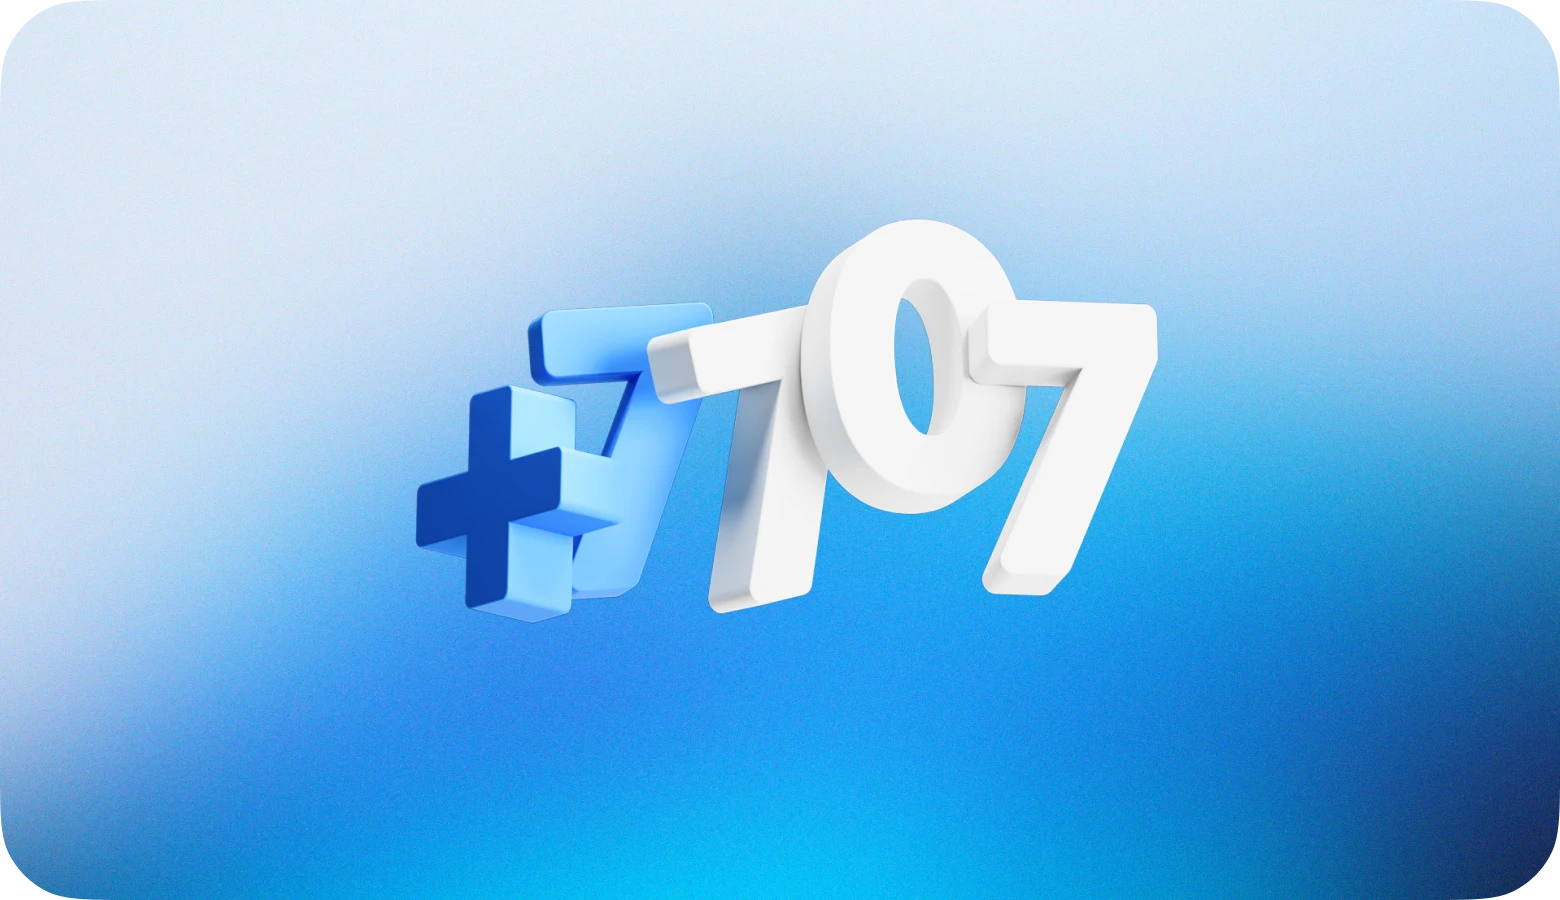
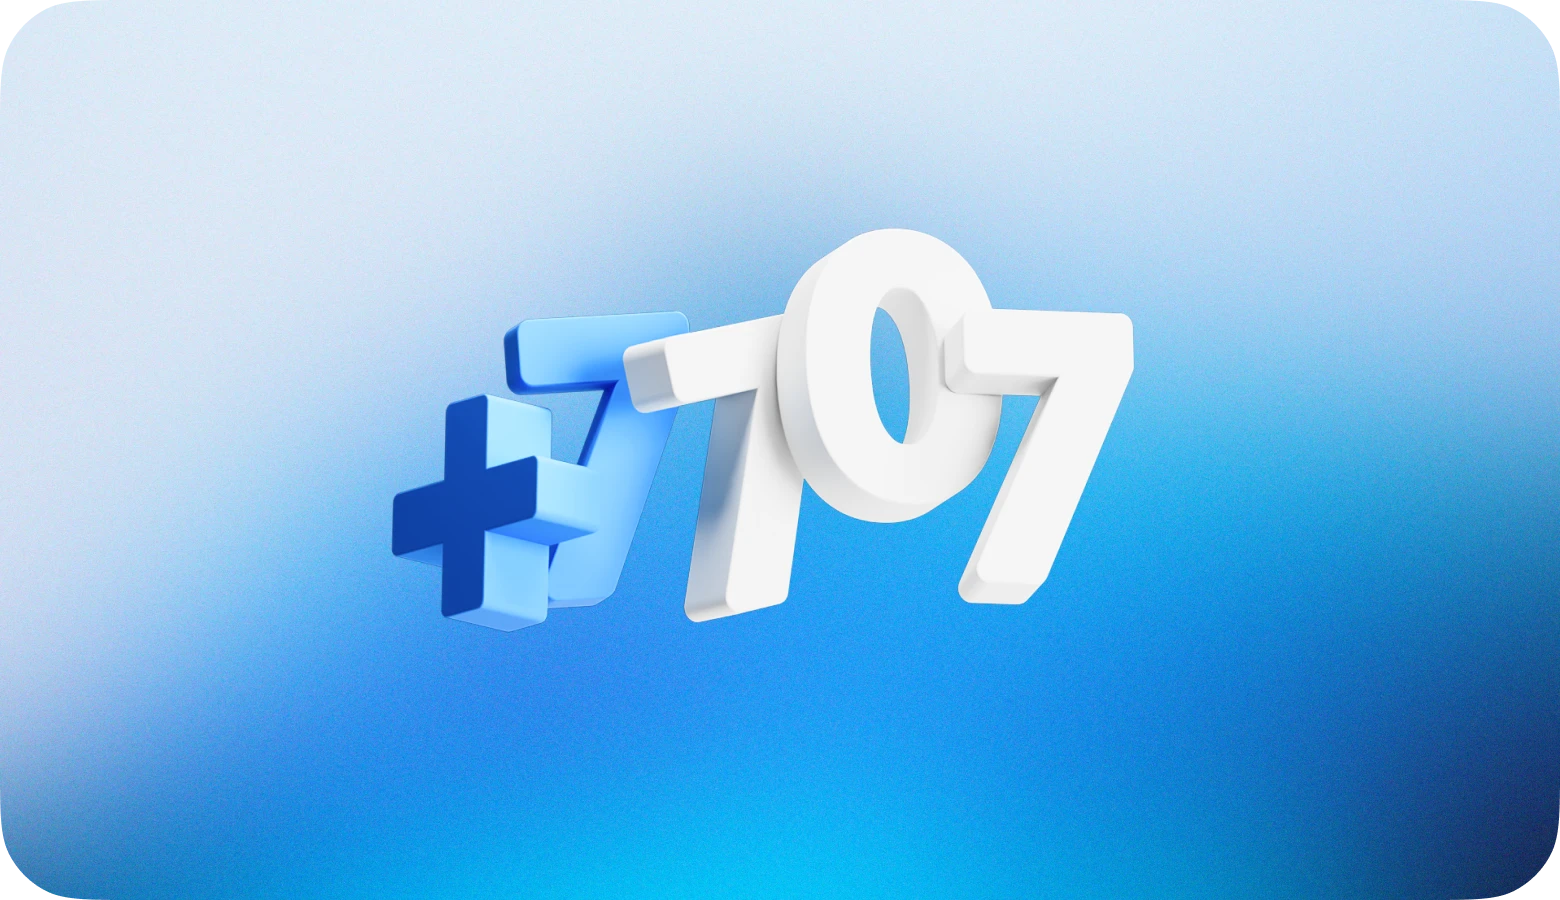
Home: update Tele2 number case cover

Changed region(s): [[0.2462, 0.2489, 0.7692, 0.7156]]

diff --git a/index.html b/index.html
@@ -132,7 +132,7 @@
     <section class="cases">
       <article class="case" data-reveal>
         <a draggable="false" class="case__cover" href="tele2-number.html" aria-label="Покупка и перенос номера в приложении Tele2">
-          <img draggable="false" src="images/case-tele2-number-cover.webp" alt="Объёмные цифры «+707» на голубом градиенте" loading="lazy">
+          <img draggable="false" src="images/case-tele2-number-cover.webp?v=2" alt="Объёмные цифры «+707» на голубом градиенте" loading="lazy">
         </a>
         <h3 class="case__title">Покупка и&nbsp;перенос номера в&nbsp;приложении Tele2</h3>
         <p class="case__text">Спроектировал покупку и&nbsp;перенос номера в&nbsp;приложении без барьеров на&nbsp;входе: время оформления сократилось с&nbsp;8 до&nbsp;2 минут.</p>
